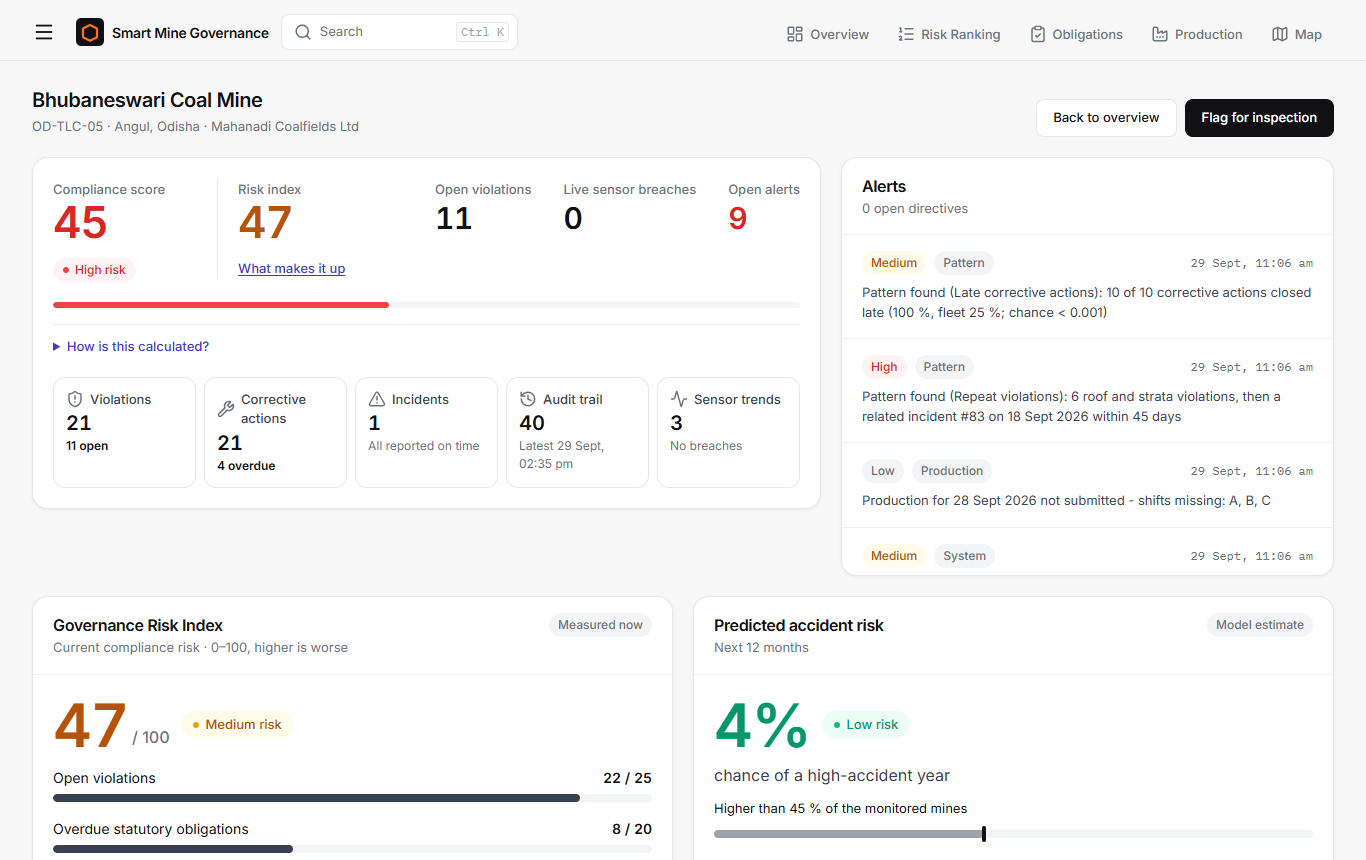
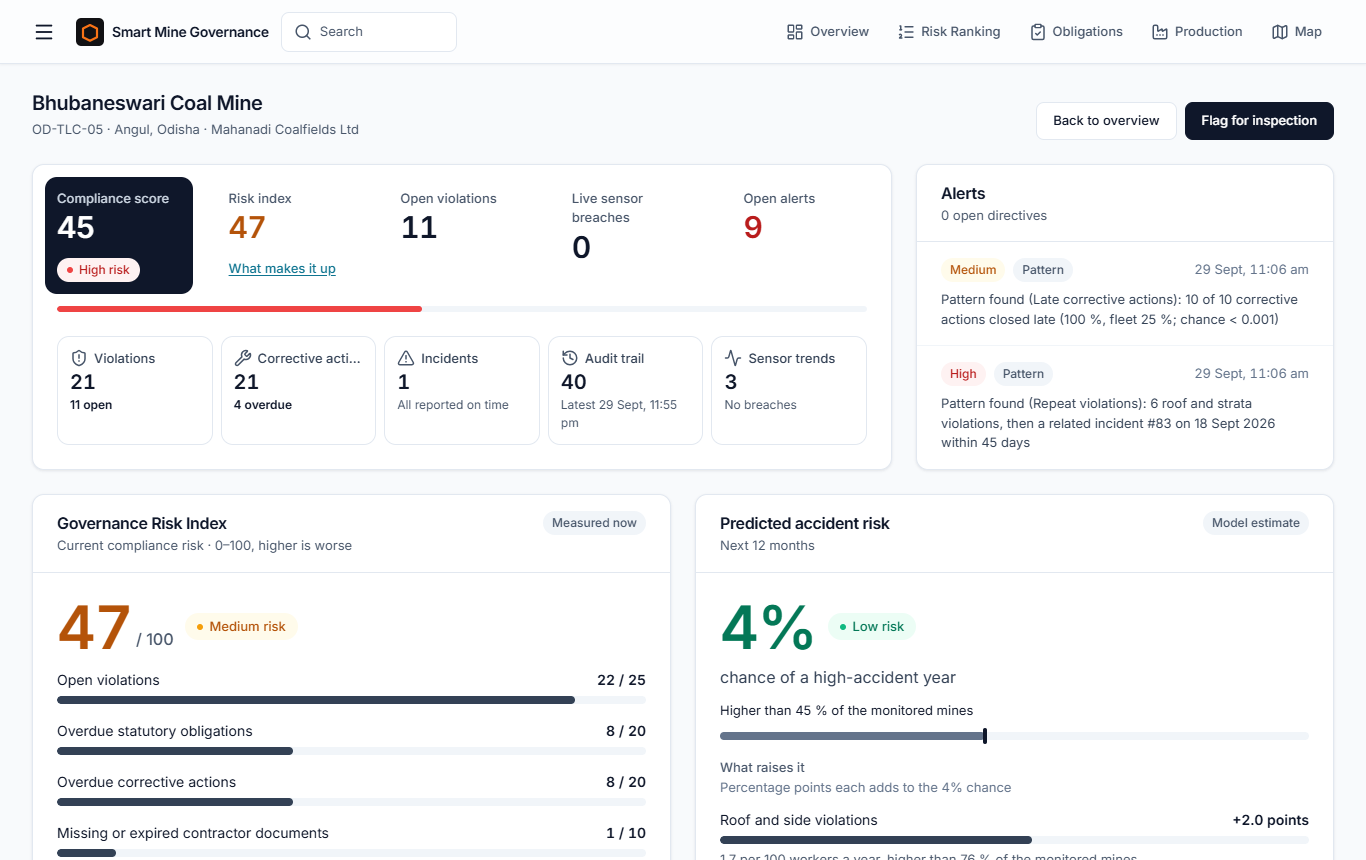
UI: remove calculation expanders, model notes, computed line and the Data sources footer
- Mine summary: no score formula expander. Governance Risk Index: no "How is this
  calculated?". Predicted risk: no US-data note, no "About this model", no computed line.
- Footer: only the detection-fallback warning remains (signed in, when it applies); the login and
  public pages have none. Data credits stay on the map's own attribution line (GEM CC BY 4.0,
  DataMeet, OpenStreetMap - required by their licences).
- Unused strings removed in all six locales; unused CSS removed; alerts list minimum lowered so
  the summary card sets the row height (no empty space).
- Checks and docs updated (browser_check phase 7, shell, detail/search, demo-script, coverage).

diff --git a/frontend/src/styles/index.css b/frontend/src/styles/index.css
@@ -326,10 +326,6 @@ html { scroll-padding-top: calc(var(--masthead-h, 0px) + var(--space-4)); }
 .meter i.risk-high { background: var(--risk-high-dot); }
 .meter i.risk-medium { background: var(--risk-medium-dot); }
 .meter i.risk-low { background: var(--risk-low-dot); }
-.formula {
-  font-size: var(--text-sm); color: var(--ink-2); font-variant-numeric: tabular-nums;
-  background: var(--sunk); padding: var(--space-3); border-radius: var(--radius-sm);
-}
 
 /* --- tables --- */
 table { width: 100%; border-collapse: collapse; font-size: var(--text-sm); }
@@ -719,19 +715,8 @@ body { overflow-x: hidden; }
   color: var(--on-navy-muted);
   font-size: var(--text-xs);
 }
-.login-card .site-footer { border-top: 0; padding: 0; text-align: center; }
-.data-sources summary { display: inline; cursor: pointer; color: var(--on-navy); text-decoration: underline; text-underline-offset: 2px; }
-.data-sources summary::-webkit-details-marker { display: none; }
-.data-sources summary:focus-visible { outline: 2px solid var(--focus); outline-offset: 2px; }
-.data-sources ul { color: var(--ink-2); }
-.data-sources ul {
-  margin: var(--space-2) 0 0; padding: var(--space-3) var(--space-4) var(--space-3) var(--space-6); max-width: 60ch;
-  background: var(--card); border: 1px solid var(--line); border-radius: var(--radius-sm); text-align: left;
-  display: grid; gap: var(--space-1);
-}
 
 /* Records row under the score (violations, corrective actions, incidents, audit). */
-.score-how { margin-top: var(--space-4); }
 /* A mine's records as one row of equal tiles (components/records/MineRecords.jsx): five across when
    the card is wide enough, otherwise two per row with the odd last tile spanning the row, so the
    rows always wrap evenly. */
@@ -846,7 +831,6 @@ html:lang(hi) body, html:lang(bn) body, html:lang(or) body, html:lang(te) body, 
 .risk-section { display: flex; flex-direction: column; gap: var(--space-5); }
 /* The two risk cards share a row of the 12-column grid (.grid-12, span-6 each) at equal height; the
    "computed" line sits at the foot of the prediction card. */
-#prediction-computed { margin-top: auto; }
 .risk-card-head { flex-wrap: wrap; align-items: flex-start; row-gap: var(--space-2); }
 .risk-card-head > div { flex: 1 1 14rem; min-width: 0; }
 .risk-kind { flex: none; }
@@ -879,13 +863,6 @@ html:lang(hi) body, html:lang(bn) body, html:lang(or) body, html:lang(te) body, 
 .info-line { display: flex; align-items: flex-start; gap: var(--space-2); margin: 0; font-size: var(--text-sm); color: var(--ink-2); }
 .info-line svg { flex: none; margin-top: 2px; color: var(--muted); }
 
-.risk-more { border-top: 1px solid var(--line-soft); padding-top: var(--space-3); }
-.risk-more summary { cursor: pointer; font-size: var(--text-sm); font-weight: 500; color: var(--accent-ink); }
-.risk-more[open] summary { margin-bottom: var(--space-3); }
-.risk-more p { margin: 0; }
-.calc-list { list-style: none; margin: 0 0 var(--space-3); padding: 0; display: grid; gap: var(--space-2); font-size: var(--text-sm); }
-.calc-list li { display: flex; flex-wrap: wrap; justify-content: space-between; gap: 0 var(--space-3); }
-.calc-list .num { color: var(--muted); }
 
 .pattern-list { list-style: none; margin: 0; padding: 0; }
 .pattern-list li { padding: var(--space-4) var(--panel-pad); border-bottom: 1px solid var(--line); display: grid; gap: 3px; }
@@ -955,7 +932,7 @@ fieldset.field-card { border: 1px solid var(--line); }
 .truncate { display: block; min-width: 0; white-space: nowrap; overflow: hidden; text-overflow: ellipsis; }
 /* A mine's alerts beside its summary: the list fills the card and scrolls, so the two cards keep
    the same height and the list never stretches the row. Stacked (narrow), it scrolls at 360 px. */
-.alerts-body { flex: 1 1 0; min-height: 280px; overflow-y: auto; contain: size; }
+.alerts-body { flex: 1 1 0; min-height: 160px; overflow-y: auto; contain: size; }
 @media (max-width: 1150px) { .alerts-body { contain: none; flex: none; min-height: 0; max-height: 360px; } }
 .mine-stats .hero-score { font-size: var(--text-display); line-height: 1.15; margin-top: 2px; }
 /* Progress uses the accent. */
@@ -1004,4 +981,5 @@ button:focus-visible, a:focus-visible, summary:focus-visible, [tabindex]:focus-v
 .has-bg .brandline h1, .has-bg .brandline span { color: var(--on-navy); }
 .has-bg .public-links, .has-bg .public-links .faint, .has-bg .public-links a:not(.btn) { color: var(--on-navy); }
 .has-bg .public-links a:not(.btn) { text-decoration: underline; text-underline-offset: 2px; }
-.has-bg .site-footer { border-radius: var(--radius-sm); }
+/* A worked figure (the contractor detail's score breakdown): normal font, tabular numerals. */
+.formula { font-size: var(--text-sm); color: var(--ink-2); font-variant-numeric: tabular-nums; background: var(--sunk); padding: var(--space-3); border-radius: var(--radius-sm); }

diff --git a/frontend/src/components/common/SiteFooter.jsx b/frontend/src/components/common/SiteFooter.jsx
@@ -1,7 +1,6 @@
-// Footer on every screen. The data sources whose licences require credit (Global Energy Monitor's
-// mine data, DataMeet's boundaries, OpenStreetMap's tiles on the map) sit behind one small "Data
-// sources" link. Signed in, it also warns when the automated detection is running on the PHP
-// fallback (Phase 8): polled every 30 s, apart from the screens' own 10 s poll.
+// Footer on signed-in screens: appears only when the automated detection is running on the PHP
+// fallback (Phase 8) - polled every 30 s, apart from the screens' own 10 s poll. The data credits
+// (Global Energy Monitor, DataMeet, OpenStreetMap) stay on the map's own attribution line.
 import { getSystemStatus } from "../../api/system";
 import { useAuth } from "../../hooks/useAuth";
 import { usePolling } from "../../hooks/usePolling";
@@ -12,27 +11,16 @@ function FallbackNotice() {
   const { data } = usePolling(getSystemStatus, { interval: 30000 });
   if (!data || data.detection_engine !== "php") return null;
   return (
-    <div className="system-warning" role="status" id="detection-fallback">
-      <strong>{t("system.fallbackTitle")}</strong>{" "}
-      {data.reason === "CONFIGURED_PHP" ? t("system.fallbackConfigured") : t("system.fallbackDown")}
-    </div>
+    <footer className="site-footer">
+      <div className="system-warning" role="status" id="detection-fallback">
+        <strong>{t("system.fallbackTitle")}</strong>{" "}
+        {data.reason === "CONFIGURED_PHP" ? t("system.fallbackConfigured") : t("system.fallbackDown")}
+      </div>
+    </footer>
   );
 }
 
 export function SiteFooter() {
-  const t = useT();
   const { user } = useAuth();
-  return (
-    <footer className="site-footer">
-      {user && <FallbackNotice />}
-      <details className="data-sources" id="data-sources">
-        <summary>{t("footer.dataSources")}</summary>
-        <ul>
-          <li>{t("footer.sourceGem")}</li>
-          <li>{t("map.attributionDatameet")}</li>
-          <li>{t("footer.sourceOsm")}</li>
-        </ul>
-      </details>
-    </footer>
-  );
+  return user ? <FallbackNotice /> : null;
 }

diff --git a/frontend/src/components/risk/RiskPanel.jsx b/frontend/src/components/risk/RiskPanel.jsx
@@ -97,19 +97,6 @@ export function GovernanceRisk({ gri }) {
 
         {user?.role === "mine_head" && <InfoLine id="gri-viewer-note">{t("gri.viewerNote")}</InfoLine>}
 
-        <details className="risk-more" id="gri-how">
-          <summary>{t("gri.howCalculated")}</summary>
-          <ul className="calc-list">
-            {gri.components.map((c) => (
-              <li key={c.key}>
-                <span>{label(c)}</span>
-                <span className="num">{t("gri.componentLine", { count: fmtNumber(c.count, 0), points: c.points, value: fmtNumber(c.value, 0), cap: c.cap })}</span>
-              </li>
-            ))}
-          </ul>
-          <p className="small num">{t("gri.totalLine", { raw: fmtNumber(gri.raw, 0), multiplier: fmtNumber(gri.multiplier, 1), gri: fmtNumber(gri.gri, 0) })}</p>
-          <p className="small muted">{t("gri.settingsNote")}</p>
-        </details>
       </div>
     </section>
   );
@@ -162,20 +149,8 @@ export function PredictedRisk({ prediction: p }) {
               ) : <p className="muted small">{t("prediction.noFactors")}</p>}
             </div>
 
-            <InfoLine id="prediction-disclaimer">{t("prediction.transferNote")}</InfoLine>
 
-            <details className="risk-more" id="prediction-about">
-              <summary>{t("prediction.aboutTitle")}</summary>
-              <div className="stack tight small">
-                <p>{t("prediction.target")}</p>
-                <p>{t("prediction.about", { auc: fmtNumber(p.test_auc, 2), baseline: fmtNumber(p.baseline_auc, 2) })}</p>
-                <p className="muted">{t("prediction.version", { version: p.model_version })}</p>
-              </div>
-            </details>
 
-            <span className="faint small" id="prediction-computed">
-              {t("prediction.computed", { when: fmtWhen(p.predicted_at), engine: t(`anomaly.engine.${p.engine}`, { defaultValue: p.engine }) })}
-            </span>
           </>
         )}
       </div>

diff --git a/frontend/src/pages/public/RaiseGrievance.jsx b/frontend/src/pages/public/RaiseGrievance.jsx
@@ -5,7 +5,6 @@ import { useEffect, useMemo, useState } from "react";
 import { Link } from "react-router-dom";
 import { CATEGORIES, LANGUAGES, SAFETY_CATEGORIES, SUBMITTER_TYPES, listPublicMines, submitGrievance } from "../../api/grievances";
 import { ErrorNotice } from "../../components/common/ErrorNotice";
-import { SiteFooter } from "../../components/common/SiteFooter";
 import { BrandBackground } from "../../components/common/BrandBackground";
 import { categoryLabel } from "../../i18n/labels";
 import { useT } from "../../i18n/t";
@@ -170,7 +169,6 @@ export default function RaiseGrievance() {
           <Link to="/grievance/track">{t("login.trackGrievance")}</Link>
           <Link to="/login">{t("grievance.public.backToLogin")}</Link>
         </div>
-        <SiteFooter />
       </div>
     </div>
   );

diff --git a/frontend/src/pages/public/TrackGrievance.jsx b/frontend/src/pages/public/TrackGrievance.jsx
@@ -3,7 +3,6 @@
 import { useEffect, useState } from "react";
 import { Link, useLocation, useSearchParams } from "react-router-dom";
 import { trackGrievance } from "../../api/grievances";
-import { SiteFooter } from "../../components/common/SiteFooter";
 import { BrandBackground } from "../../components/common/BrandBackground";
 import { ErrorNotice } from "../../components/common/ErrorNotice";
 import { GrievanceStatus, fmtWhen } from "../../components/grievances/common";
@@ -88,7 +87,6 @@ export default function TrackGrievance() {
           <Link to="/grievance">{t("login.raiseGrievance")}</Link>
           <Link to="/login">{t("grievance.public.backToLogin")}</Link>
         </div>
-        <SiteFooter />
       </div>
     </div>
   );

diff --git a/frontend/src/pages/Login.jsx b/frontend/src/pages/Login.jsx
@@ -3,7 +3,6 @@ import { useState } from "react";
 import { useLocation, useNavigate, Link } from "react-router-dom";
 import { Card } from "../components/common/Card";
 import { ErrorNotice } from "../components/common/ErrorNotice";
-import { SiteFooter } from "../components/common/SiteFooter";
 import { useAuth } from "../hooks/useAuth";
 import { homeFor } from "../auth/roles";
 import { useT } from "../i18n/t";
@@ -97,7 +96,6 @@ export default function Login() {
             <Link className="btn" to="/grievance/track">{t("login.trackGrievance")}</Link>
           </div>
         </div>
-        <SiteFooter />
       </div>
     </div>
   );

diff --git a/frontend/src/pages/government/MineDetail.jsx b/frontend/src/pages/government/MineDetail.jsx
@@ -82,13 +82,6 @@ export function ComplianceSummary({ mine, gri = null }) {
       <div className="meter" style={{ marginTop: "var(--space-5)" }}>
         <i className={cls} style={{ width: `${Math.max(0, Math.min(100, c.score))}%` }} />
       </div>
-      <details className="risk-more score-how" id="score-how">
-        <summary>{t("mine.howCalculated")}</summary>
-        <div className="formula">
-          100 - ({c.violation_count} {t("mine.violationsShort")} x {c.weight_ppe}) - ({c.breach_count} {t("mine.breachesShort")} x{" "}
-          {c.weight_env}) = {fmtScore(c.score)}
-        </div>
-      </details>
     </>
   );
 }

diff --git a/frontend/src/i18n/t.js b/frontend/src/i18n/t.js
@@ -1,5 +1,5 @@
 // Translation helpers.
-//   t("footer.dataSources")            plain function, usable outside components
+//   t("nav.menu")                      plain function, usable outside components
 //   useT()                             hook for components (re-renders on language change)
 //   errorMessage(err)                  a normalised API error (api/client.js) -> text
 import { useTranslation } from "react-i18next";

diff --git a/docs/PROBLEM_STATEMENT_COVERAGE.md b/docs/PROBLEM_STATEMENT_COVERAGE.md
@@ -36,7 +36,7 @@ of Phase 8. Test names are in `api/tests/` (Codeception) and `ai-service/tests/`
 | 15 | **IoT monitoring with threshold alerts** (PRD 4.2) | Simulator replays readings through an API-key ingest endpoint; legal limits from `rules.yaml` (each tied to a cited obligation); breaches raise alerts and age out of the score | [sensors](screenshots/phase2/04-gov-sensors.png), [trends](screenshots/phase2/12-gov-sensor-trends.png) | `SensorCest`, `SensorRulesTest` | No real hardware (out of scope); readings are synthetic, calibrated to CPCB air-quality statistics. |
 | 16 | **Compliance score and risk bands** (PRD 4.3, 6.1) | `100 - violations x 5 - breaches in window x 3`, bands low 80+, medium 50+, high; the Governance Risk Index beside it | [score and index](screenshots/phase7/01-gov-mine-score-and-index.png) | `ComplianceScoreServiceTest` (the prototype's numbers), `DemoScoreCest` (100 / 80 / 70 / 60 / 45, fleet 83.2), `yii demo/check` | The weights are product settings, not a regulatory formula; the index's weights are not fitted to outcomes. |
 | 17 | **AI anomaly detection** | Seven detectors (production spikes, flatlined sensors, night-shift concentration, repeat violations, late corrective actions, contractor outliers, grievance clusters), in the ai-service with identical PHP twins | [findings](screenshots/phase7/05-priority-fleet-findings.png) | Against the planted scenarios: 7 of 7 found, 3 of 3 decoys ignored, 10 unplanted flags explained (`docs/AI_EVALUATION.md` section 1, `AiEvaluationTest`, `DetectorParityTest`) | Evaluated on synthetic data only; the ten extra flags are real patterns the generator did not label. |
-| 18 | **Predictive risk indicator** (PRD 4 (7)) | Gradient boosting on real US regulator data (MSHA coal mine-years), time split, calibrated, with top factors in plain language | [predicted risk](screenshots/phase7/02-gov-risk-panel-fallback.png) | Test years 2022-2024: AUC 0.816 against 0.766 for last year's accident rate (`docs/AI_EVALUATION.md` section 2) | **Trained on US data and transferred**; not validated on Indian mines. Shown as a prompt, never a finding. |
+| 18 | **Predictive risk indicator** (PRD 4 (7)) | Gradient boosting on real US regulator data (MSHA coal mine-years), time split, calibrated, with top factors in plain language | [predicted risk](screenshots/phase7/02-gov-risk-panel-fallback.png) | Test years 2022-2024: AUC 0.816 against 0.766 for last year's accident rate (`docs/AI_EVALUATION.md` section 2) | **Trained on US data and transferred**; not validated on Indian mines. A prompt, never a finding (said in the demo; the screen shows the figure and its factors only). |
 
 ## Questions judges may ask
 
@@ -46,7 +46,7 @@ the company production totals, DGMS accident statistics and CPCB air-quality fig
 operations - production entries, sensor readings, violations, grievances - are synthetic, generated
 with a fixed seed and calibrated to those public statistics (`data/DATASETS.md`, "Data provenance
 for judges"). The screens no longer tag scores as demo values (production-styled UI); the data
-sources whose licences require credit are listed under "Data sources" in every page's footer.
+sources whose licences require credit are credited on the map's attribution line.
 
 **Which law does it follow?** The OSH Code 2020, in force from 21.11.2025, the OSH (Central) Rules
 2026 and the Coal Mines Regulations 2017 (saved under the Code). The Mines Act 1952 and the Contract

diff --git a/docs/demo-script.md b/docs/demo-script.md
@@ -4,8 +4,8 @@ Target: the multi-mine comparison story, since PRD Section 8 names it the primar
 scenario. Stack: Yii2 API (port 8080) + PostgreSQL, ai-service (8001) for PPE vision, React (5173).
 Every score on screen is computed from synthetic data (`data/DATASETS.md`). The UI is production-styled:
 it no longer labels figures as demo values, so say it out loud - mine names and locations are real
-(Global Energy Monitor, Global Coal Mine Tracker, August 2026, CC BY 4.0; credited under "Data sources"
-in the footer), the numbers attached to them are not. The login page's quick-fill buttons appear because
+(Global Energy Monitor, Global Coal Mine Tracker, August 2026, CC BY 4.0; credited on the map's
+attribution line), the numbers attached to them are not. The login page's quick-fill buttons appear because
 run_all.bat starts the dashboard in demo mode (`frontend/.env.demo`, `VITE_DEMO_MODE=true`).
 
 ---
@@ -264,9 +264,9 @@ continuing** (`scripts\demo_reset.bat`).
     score still beside it - say the score itself has not changed. Scroll to **Patterns found**: seven
     automated checks, each finding with its numbers ("12 roof and strata violations of 33 in 45
     days, about 2.5 expected"). Open **Bhubaneswari**: the index sits beside the score; the panel
-    below shows how it is made up (count × points, capped), the **predicted risk** with what raises
-    it, and the statement that the model is **trained on US regulator data and transferred** -
-    read it out; it is a prompt to look, not a finding. If asked how good the checks are:
+    below shows how it is made up (a bar per component), and the **predicted risk** with what raises
+    it. Say it out loud: the model is **trained on US regulator data and transferred** - a prompt to
+    look, not a finding (the screen no longer carries that note). If asked how good the checks are:
     `docs/AI_EVALUATION.md` (every planted scenario found, every decoy ignored, the false positives
     explained; the model beats last year's accident rate on later US years, AUC 0.82 against 0.77).
     To show the fallback, close the `SIH-AI` window and run `api\yii.bat jobs/anomaly`: the same
